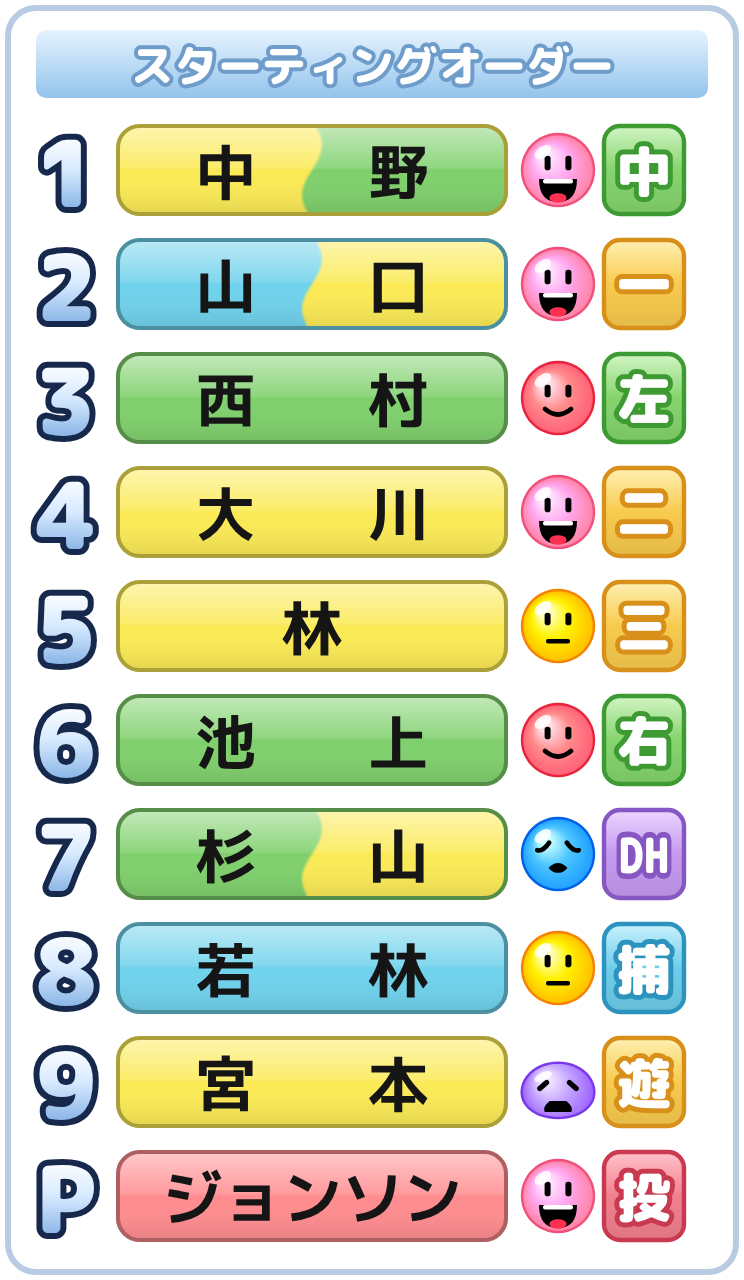
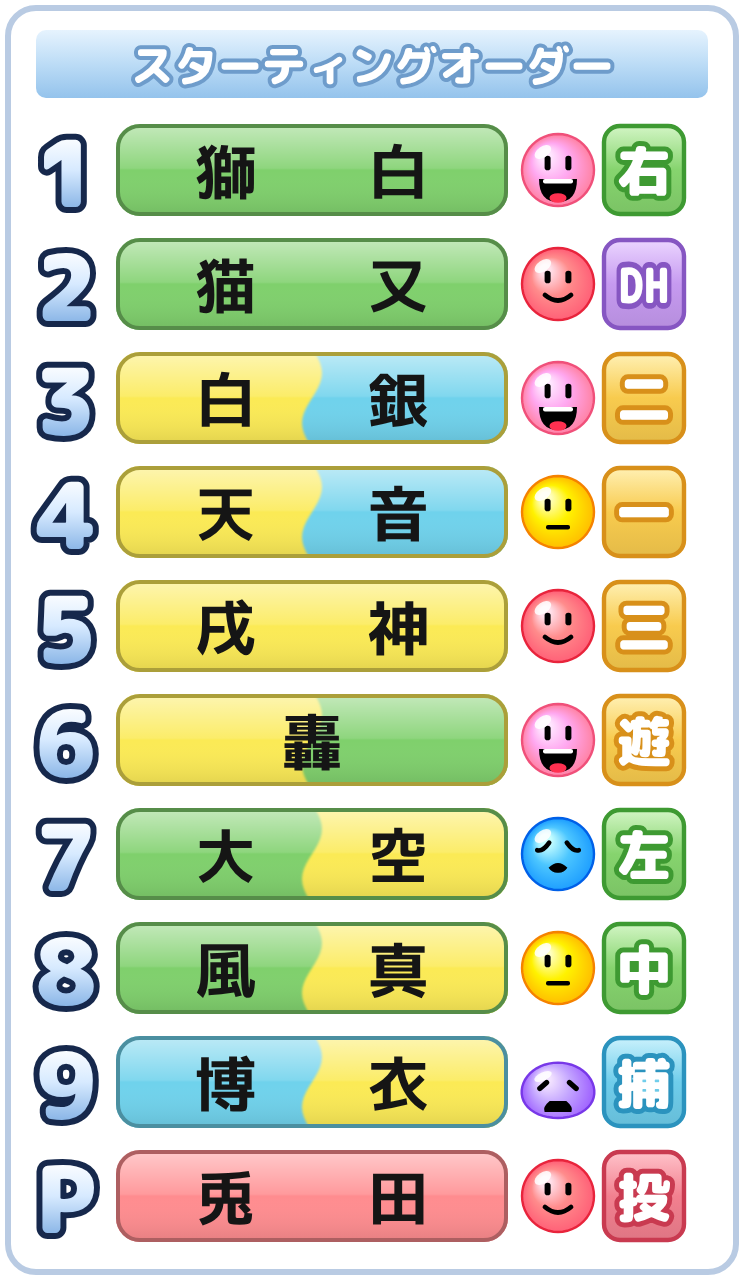
スタメン画像ジェネレーター：初期値のオーダーを差し替え
持ち主のスクリーンショットのスタメン（獅白〜博衣）と先発の兎田にし、名前の欄の色も合わせる。調子は散らす。
使用例の画像とOGP画像も作り直す。

Claude-Session: https://claude.ai/code/session_01SKh1jhAp32CEmbZCaaEmgk

diff --git a/order/index.html b/order/index.html
@@ -285,16 +285,16 @@ var COND_BY_KEY = {};
 CONDITIONS.forEach(function (c) { COND_BY_KEY[c.key] = c; });
 
 var DEFAULT_ROWS = [
-    { name: "中野", pos: "中", cond: "zekko", colors: ["yellow", "green"] },
-    { name: "山口", pos: "一", cond: "zekko", colors: ["water", "yellow"] },
-    { name: "西村", pos: "左", cond: "kocho", colors: ["green"] },
-    { name: "大川", pos: "二", cond: "zekko", colors: ["yellow"] },
-    { name: "林", pos: "三", cond: "futsu", colors: ["yellow"] },
-    { name: "池上", pos: "右", cond: "kocho", colors: ["green"] },
-    { name: "杉山", pos: "DH", cond: "fucho", colors: ["green", "yellow"] },
-    { name: "若林", pos: "捕", cond: "futsu", colors: ["water"] },
-    { name: "宮本", pos: "遊", cond: "zeffu", colors: ["yellow"] },
-    { name: "ジョンソン", pos: "投", cond: "zekko", colors: ["red"] }
+    { name: "獅白", pos: "右", cond: "zekko", colors: ["green"] },
+    { name: "猫又", pos: "DH", cond: "kocho", colors: ["green"] },
+    { name: "白銀", pos: "二", cond: "zekko", colors: ["yellow", "water"] },
+    { name: "天音", pos: "一", cond: "futsu", colors: ["yellow", "water"] },
+    { name: "戌神", pos: "三", cond: "kocho", colors: ["yellow"] },
+    { name: "轟", pos: "遊", cond: "zekko", colors: ["yellow", "green"] },
+    { name: "大空", pos: "左", cond: "fucho", colors: ["green", "yellow"] },
+    { name: "風真", pos: "中", cond: "futsu", colors: ["green", "yellow"] },
+    { name: "博衣", pos: "捕", cond: "zeffu", colors: ["water", "yellow"] },
+    { name: "兎田", pos: "投", cond: "kocho", colors: ["red"] }
 ];
 var STORAGE_KEY = "tooldock:order:v1";
 
